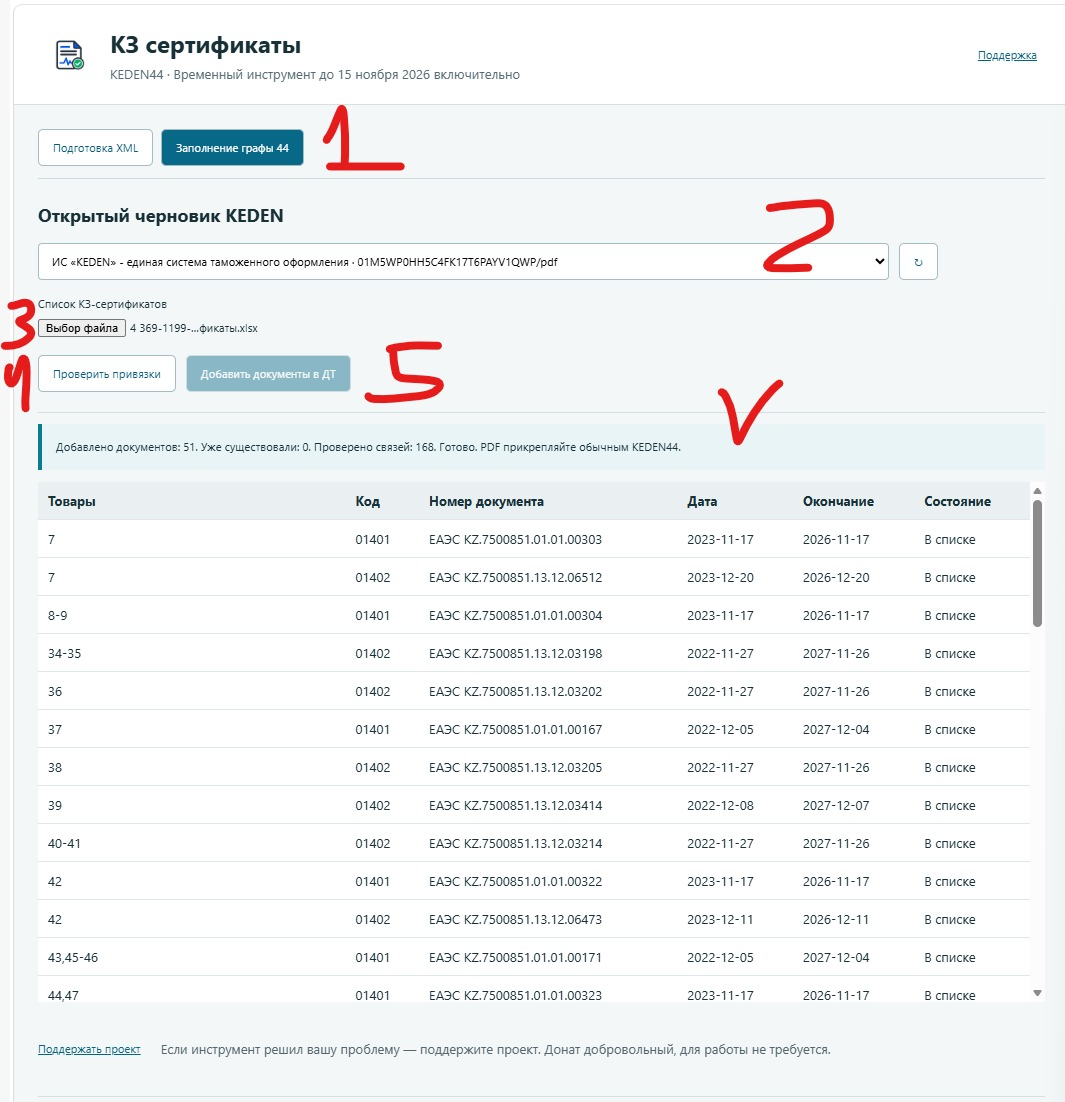
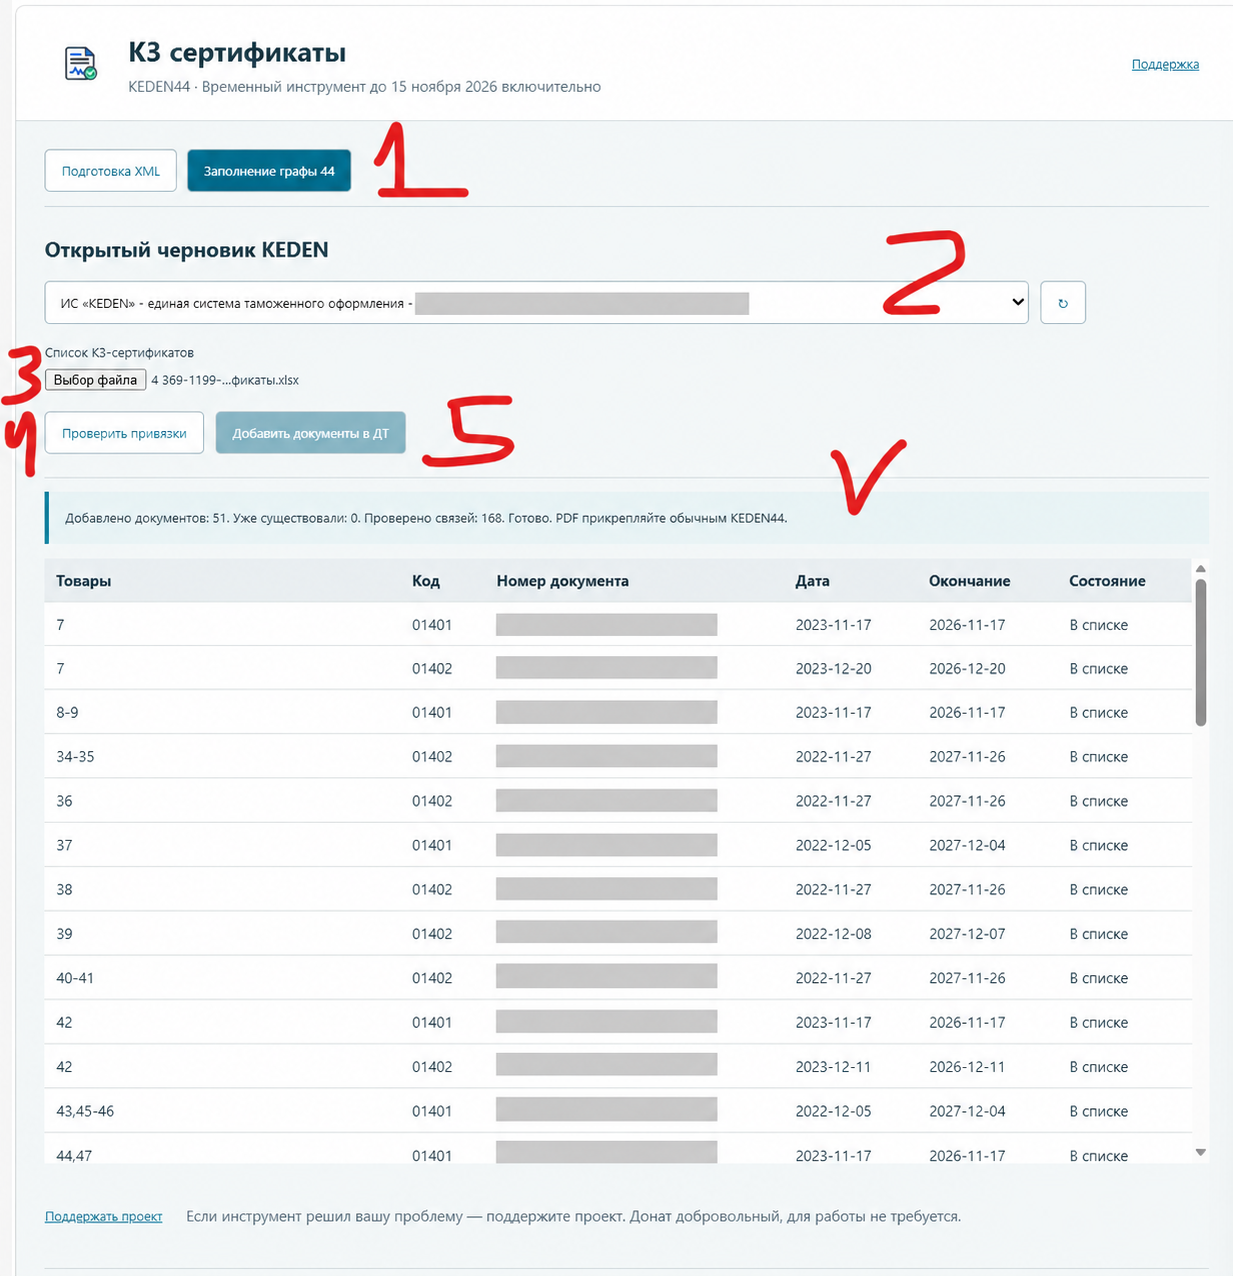
Redact certificate numbers and draft identifier in instruction screenshot

diff --git a/tools/kz-certificates/index.html b/tools/kz-certificates/index.html
@@ -65,7 +65,7 @@
     <ol class="steps"><li><strong>Переключитесь с помощника на сам сайт KEDEN.</strong> Откройте журнал «Мои декларации».</li><li><strong>В KEDEN нажмите «Загрузить XML».</strong> Выберите новый файл, скачанный кнопкой «Скачать XML без КЗ-сертификатов». Не выбирайте исходный XML и не выбирайте Excel.</li><li><strong>Дождитесь завершения загрузки и откройте созданную ДТ.</strong> Нужен именно этот новый черновик, а не другая декларация из журнала. Оставьте его открытым в браузере.</li><li><strong>Теперь вернитесь во вкладку «КЗ сертификаты».</strong> Только после загрузки и открытия новой ДТ переходите к этапу 2 ниже.</li></ol>
     <div class="notice"><i data-lucide="file-input" aria-hidden="true"></i><p><strong>Подготовка двух файлов ещё не загружает ДТ в KEDEN.</strong> Excel хранит отдельно убранные сертификаты. Второй этап вернёт их в ту ДТ, которую вы только что создали из нового XML.</p></div>
     <h3 class="guide-followup">Этап 2. Верните сертификаты в созданную ДТ</h3>
-    <figure><a href="step-fill.png" target="_blank" rel="noopener"><img class="guide-image" src="step-fill.png" width="1065" height="1102" alt="Заполнение графы 44: красными цифрами отмечены вкладка, выбор черновика, Excel, проверка привязок и добавление документов; галочка отмечает итоговую строку" loading="lazy"></a></figure>
+    <figure><a href="step-fill.png?v=redacted-20261102" target="_blank" rel="noopener"><img class="guide-image" src="step-fill.png?v=redacted-20261102" alt="Заполнение графы 44: красными цифрами отмечены вкладка, выбор черновика, Excel, проверка привязок и добавление документов; номера сертификатов и идентификатор черновика скрыты" loading="lazy"></a><figcaption>Номера сертификатов и идентификатор черновика скрыты. Пример показывает только порядок действий.</figcaption></figure>
     <ol class="steps"><li><strong>Откройте «Заполнение графы 44».</strong> Это вторая вкладка помощника.</li><li><strong>Выберите нужный открытый черновик KEDEN.</strong> Если его нет в списке, нажмите круглую стрелку справа. Проверьте, что выбрана именно ДТ, созданная из подготовленного XML. Закройте формы редактирования внутри KEDEN.</li><li><strong>Выберите сохранённый список Excel.</strong> Нужен файл, который вы скачали на первом этапе для этой же декларации.</li><li><strong>Нажмите «Проверить привязки».</strong> Помощник сверит товары и уже имеющиеся записи графы 44. Дождитесь результата проверки.</li><li><strong>Нажмите «Добавить документы в ДТ» и подтвердите действие.</strong> Не переключайте ДТ и не редактируйте её, пока помощник работает. Он добавит реквизиты сертификатов к указанным товарам.</li></ol>
     <p><strong>Смотрите итоговую строку над таблицей, отмеченную галочкой на примере.</strong> «Добавлено документов» — сколько записей добавлено сейчас; «Уже существовали» — сколько совпадающих записей найдено; «Проверено связей» — связи документов с товарами. Эти числа могут отличаться: один сертификат может относиться к нескольким товарам. Строки таблицы «В списке» сами по себе ещё не означают, что добавление закончено.</p>
     <p><strong>После завершения откройте графу 44 в KEDEN и проверьте результат.</strong> Если она была открыта заранее, закройте и откройте её снова. Помощник возвращает записи сертификатов, но не их PDF-файлы. PDF затем прикрепите обычным KEDEN44.</p>
